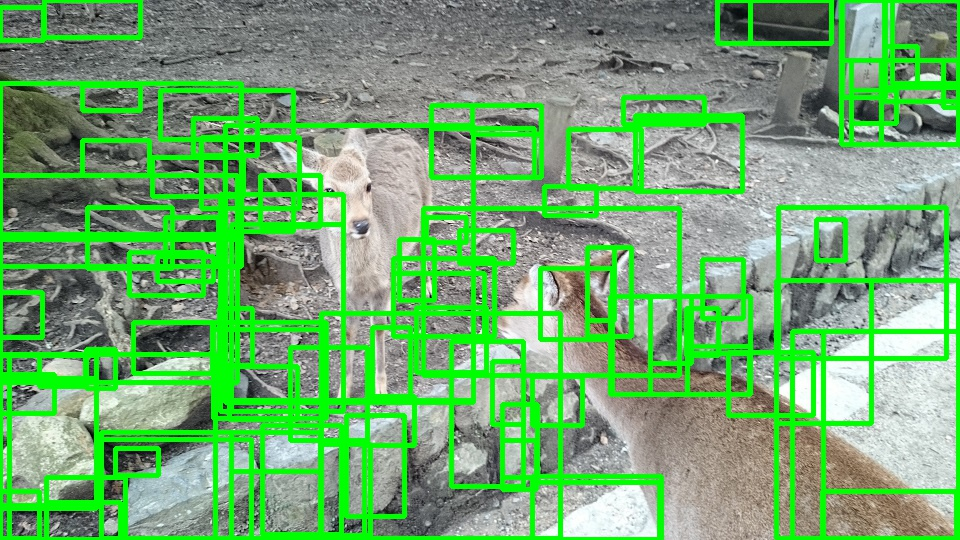
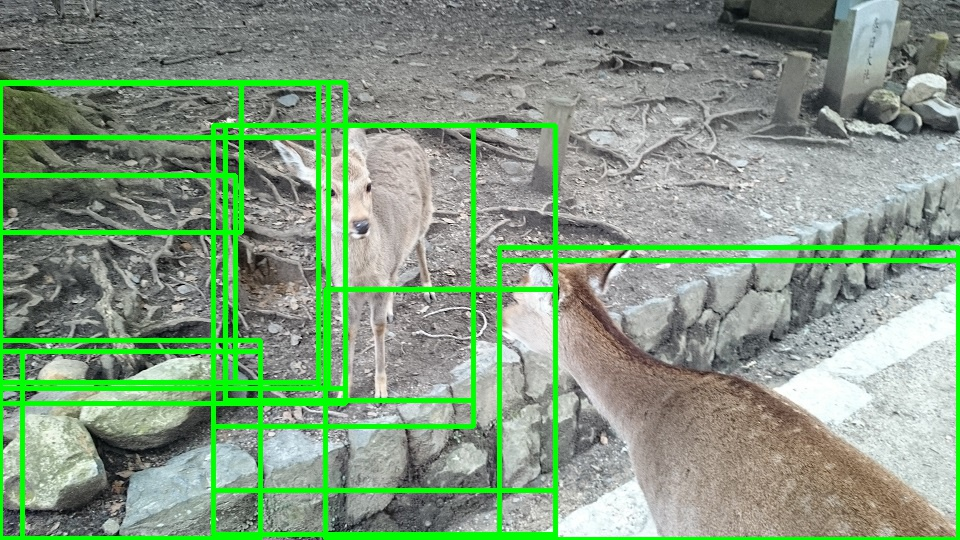
Update parameters and example image

Changed region(s): [[0.0, 0.1481, 1.0, 1.0], [0.7188, 0.0, 1.0, 0.2963], [0.0, 0.0, 0.1562, 0.0889]]

diff --git a/selective-search-cpp/test.cpp b/selective-search-cpp/test.cpp
@@ -9,7 +9,7 @@ int main( int argc, char** argv )
 	cv::Mat img = cv::imread( fileName, cv::IMREAD_COLOR );
 
 	// selective search
-	auto proposals = ss::selectiveSearch( img, 380, 0.8, 100, 600, 25000, 3.0 );
+	auto proposals = ss::selectiveSearch( img, 500, 0.8, 50, 20000, 100000, 2.5 );
 	
 	// do something...
 
@@ -17,7 +17,7 @@ int main( int argc, char** argv )
 	{
 		cv::rectangle( img, rect, cv::Scalar( 0, 255, 0 ), 3, 8 );
 	}
-
+	cv::imwrite( "../example.jpg", img );
 	cv::imshow( "result", img );
 	cv::waitKey( 0 );
 
